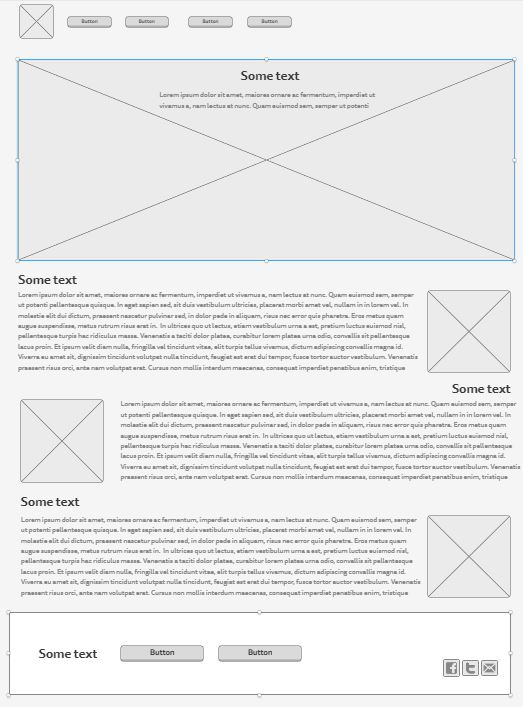
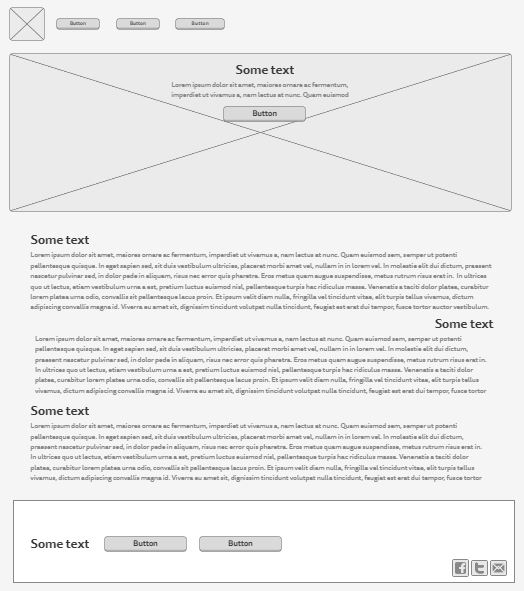
wwr faq page

diff --git a/wwr/faq.html b/wwr/faq.html
@@ -1,0 +1,66 @@
+<!DOCTYPE html>
+<html lang="en">
+<head>
+    <meta charset="UTF-8">
+    <meta http-equiv="X-UA-Compatible" content="IE=edge">
+    <meta name="viewport" content="width=device-width, initial-scale=1.0">
+    <title>Great Adventure Rafting</title>
+    <link rel="stylesheet" href="styles/style.css">
+</head>
+<body>
+    <div id="content">
+    <header>
+        <a id="logo_link" href="index.html">
+        <img src="images/wwrlogo.png" alt="great adventure rafting logo"> </a>
+        <nav>
+            <a href="index.html">Home</a>
+            <a href="faq.html">FAQ</a>
+            <a href="site-plan-rafting.html">Site Plan</a>
+            <a href="contactus.html">Contact Us</a>
+        </nav>
+    </header>
+    <div id="hero">
+        <div id="herobox">
+            <img id="hero-img" src="images/hero.png" alt="People enjoying a white water rafting trip">
+    </div>
+    <section id="hero-msg">
+        <h1 class="home-title">Let's Go On A Great Adventure</h1>
+        <h4>Create memories that last a lifetime with Great Adventure Rafting</h4>
+        <div class="button-box">
+            <a class="book" href="rates.html">Get Started Now</a>
+        </div>
+    </section>
+    </div>
+<main class="test-grid">
+    <section class="kids">
+        <h2>Is this a good trip for kids? What are the age ranges you allow?</h2>
+        <p> Absolutely this is a good trip for children of all ages. We have found however that children over the age of 8 seem to enjoy it more overall (And parents especially enjoy it more if their children are all over 8). A common concern we get from parents is that their children will be bored stuck on a boat for hours at a time. Surprisingly we deal with very few bored children of any age. The areas we are rafting through are some of the most beautiful in the world, and you never know what you might see around any corner. Not to mention the rapids which keep things very interesting. Each boat also comes equipped with a guide. It has been proven that river guides are unable to go for very long at all without telling stories...some of which are even true! </p>
+    </section>
+    <section class="supplies">
+        <h2>What do I need to bring?</h2>
+        <p> The most effective way to plan for temperature and weather changes in the Canyon is to be prepared for both hot & dry and cold & wet. Rain jacket and rain pants- do not bring ponchos. Wear quick dry shirts and shorts, long sleeve cotton shirt and pants will help keep you cooler on hot days. Button down shirts provide more sun protection on the neck. The best thing for men to wear are swim trunks as shorts. If you are cold natured, bring polypropylene long underwear, top and bottom. Women, wear swim suits or quick dry underwear and sport bras as a base layer during the day. Over the base layer, wear a pair of quick dry shorts and the shirt of your choice (polypropylene if you are cold, cotton if you are hot). Two piece swim suits are convenient when changing or going to the bathroom. A large brim hat offers protection from the sun with a good quality strap. Sunglasses with strap socks can be used for hiking and to protect your feet from the sun. Sandals or water shoes- if you are not used to hiking in these, bring a pair of shoes you have hiked in before. Camp wear: Bring something comfortable to wear around camp. Cotton dresses, skirts and sarongs are all popular options. Sleep wear: You might choose to sleep in your camp wear. Otherwise, you might like to bring something comfortable to sleep in. A water bottle, small day pack for hikes, moisturizing lotion, headlamp or flashlight, moleskin, waterproof sunscreen, and lip balm. Optional items: gloves, fleece jacket, towel, bandana, small pillow, hygiene products (toothpaste, toothbrush, tissue, nail clippers, feminine hygiene products, extra eyeglasses or contacts, biodegradable soap and shampoo), camera equipment book, watercolors, journal and pen. </p>
+    </section>
+    <section class="benefits">
+        <h2>What is so great about whitewater rafting anyway?</h2>
+        <p> Are you kidding me! What's not great about whitewater rafting!...Let's describe a common day on the river.
+         Arise in the soft light of the early morning after a night spent sleeping under a beautiful starry sky. Have a hearty warm breakfast of fresh blueberry pancakes or omelets to order, then pack your things and prepare for the day. The day is filled with some combination of swift water, rapids, calms, hikes, history, geology, stories, and more good food. We try to hit camp around 4 or 5, after setting up your cot you can relax with a good book or good company by the river, or explore around camp while your guides prepare your dinner...something perhaps like steak and potatoes, or grilled salmon...and dutch oven brownies...you won't forget the dutch oven brownies. After dinner it's more relaxing, and you might even be able to talk your guide into another story or two to send you off to bed under more stars than you thought were possible </p>
+    </section>
+</main>
+<footer>
+    <p> Great Adventure Rafting &copy; 2022 - Ally Criddle</p>
+    <p><a href="site-plan-rafting.html">Site Plan</a></p>
+    <p><a href="contactus.html">Contact Us</a></p>
+    <div class="social">
+        <a href="https://facebook.com" target="_blank">
+            <img src="images/facebook.png" alt="fb icon">
+        </a>
+        <a href="https://twitter.com" target="_blank">
+            <img src="images/twitter.png" alt="twitter icon">
+        </a>
+        <a href="https://instagram.com" target="_blank">
+            <img src="images/instagram.png" alt="ig icon">
+        </a>
+    </div>
+</footer>
+</div>
+</body>

diff --git a/wwr/index.html b/wwr/index.html
@@ -14,7 +14,7 @@
         <img src="images/wwrlogo.png" alt="great adventure rafting logo"> </a>
         <nav>
             <a href="index.html">Home</a>
-            <a href="#">Page 2</a>
+            <a href="faq.html">FAQ</a>
             <a href="site-plan-rafting.html">Site Plan</a>
             <a href="contactus.html">Contact Us</a>
         </nav>
@@ -57,7 +57,7 @@
 </main>
 <footer>
     <p> Great Adventure Rafting &copy; 2022 - Ally Criddle</p>
-    <p><a href="site-plan-racfting.html">Site Plan</a></p>
+    <p><a href="site-plan-rafting.html">Site Plan</a></p>
     <p><a href="contactus.html">Contact Us</a></p>
     <div class="social">
         <a href="https://facebook.com" target="_blank">

diff --git a/wwr/styles/style.css b/wwr/styles/style.css
@@ -223,3 +223,38 @@ footer .social img {
         margin-top: 25px;
     }
 }
+/* FAQ PAGE BEGINS*/
+/* testing */
+.test-grid {
+    grid-template-columns: repeat(3, 1fr);
+}
+.kids {
+    grid-column: 1/2;
+    margin: 50px;
+    text-align: left;
+}
+.kids h2 {
+    text-align: left;
+    margin: 50px;
+    text-decoration: underline;
+}
+.supplies {
+    grid-column: 1/2;
+    margin: 50px;
+    text-align: right;
+}
+.supplies h2 {
+    text-align: right;
+    margin: 50px;
+    text-decoration: underline;
+}
+.benefits {
+    grid-column: 1/2;
+    margin: 50px;
+    text-align: left;
+}
+.benefits h2 {
+    text-align: left;
+    margin: 50px;
+    text-decoration: underline;
+}
